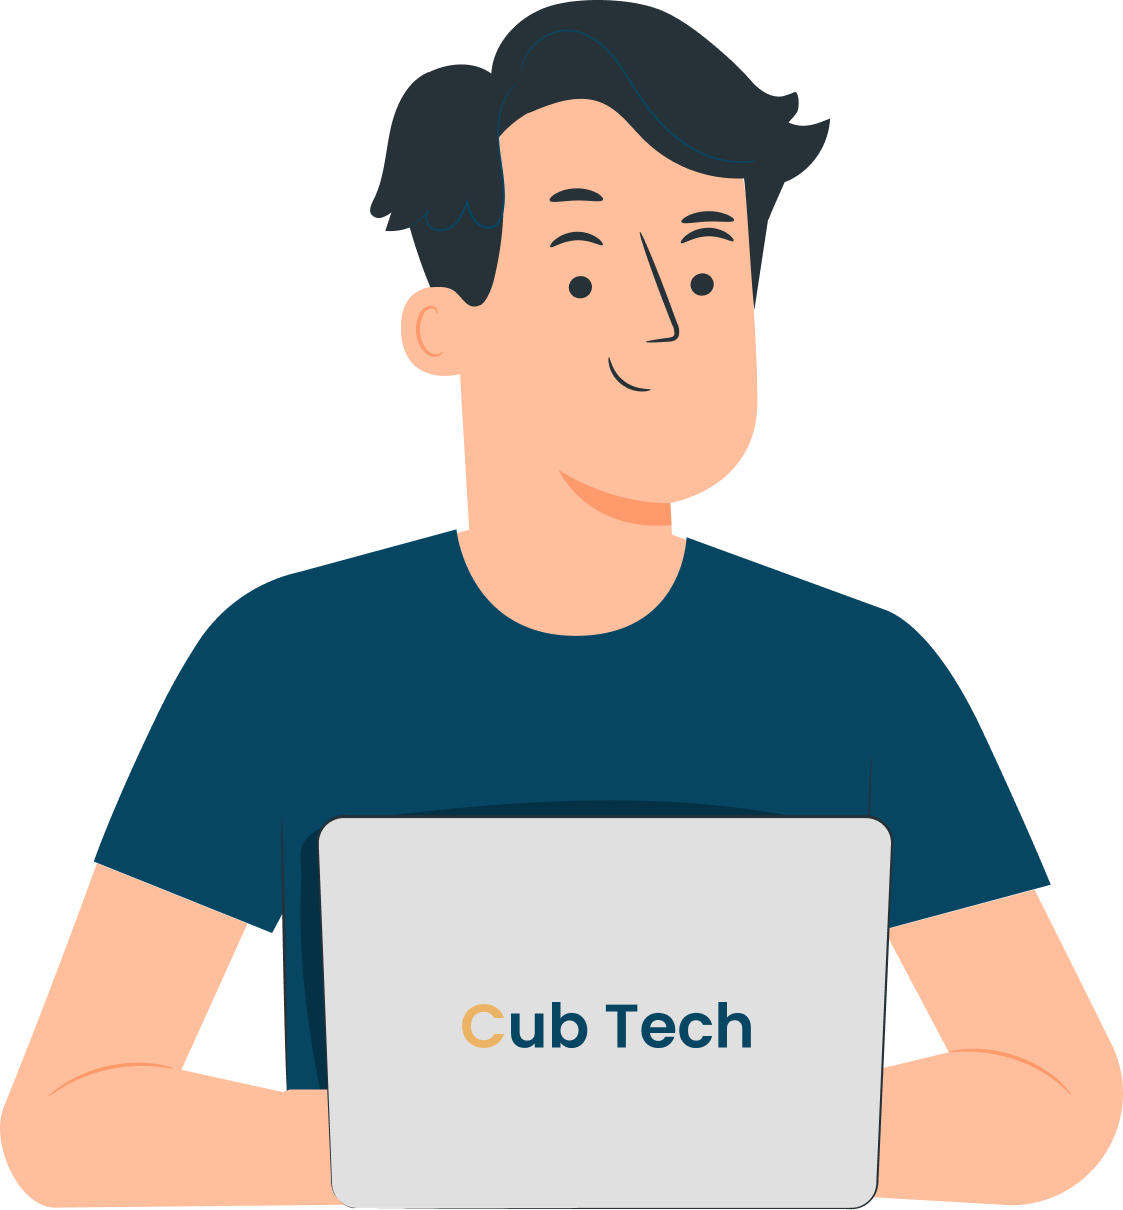
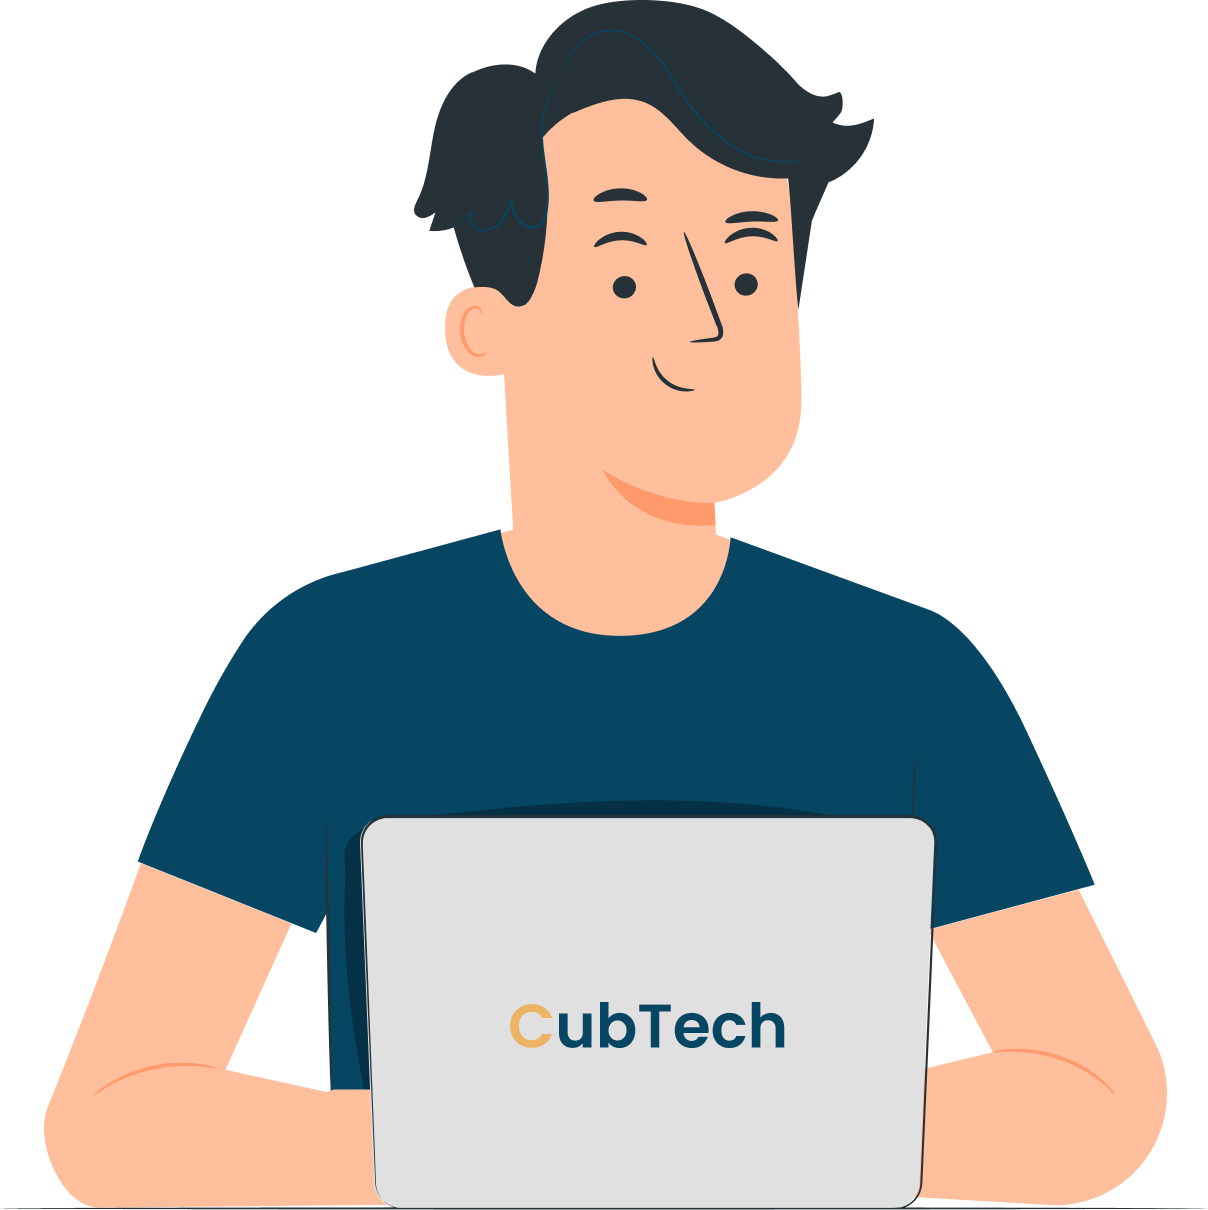
first commit

diff --git a/components/Hero.jsx b/components/Hero.jsx
@@ -7,21 +7,21 @@ const Hero = () => {
     <section className="flex px-4 justify-center xs:flex-col xs:gap-24 lg:flex-row bg-silver pb-20 mb-10">
       <div className="max-w-[850px] relative">
         <h1 className="text-secondary mb-4 mt-12">
-          <span style={{ display: 'inline-block' }}>C</span>
+          <span className="inline-block">C</span>
           {/* Use backticks for inline styles to avoid escaping quotes */}
-          <span className="text-primary" style={{ display: 'inline-block' }}><AnimatedLogo /></span>
+          <span className="text-primary inline-block"><AnimatedLogo /></span>
         </h1>
 
-        <p className="text-gray-700 mb-8">
+        <p className="text-gray-700 mb-10">
           Cub Tech is a scientific club located within the men's residence of CUB1 at Bab Ezzouar. Our mission revolves around fostering a collaborative environment where knowledge sharing thrives. Through lectures, workshops, and collaborative projects, we aim to deepen understanding across various scientific disciplines, inspiring lifelong learning and a sense of camaraderie among our members.
         </p>
 
         {/* Fix button hover effect (assuming missing hover styles) */}
-        <button className="py-3 lg:py-4 px-12 lg:px-16 text-primary cursor-not-allowed font-semibold rounded-lg bg-secondary hover:bg-secondary-hover transition-all outline-none">Join Us</button>
+        <button className="py-4 lg:py-4 px-12 lg:px-16 text-primary cursor-not-allowed font-semibold rounded-lg bg-secondary hover:bg-secondary-hover transition-all outline-none">Join Us</button>
       </div>
 
       <div className="relative">
-        <Image src={"/hero.png"} alt="hero" width={355} height={340} />
+        <Image src={"/hero.png"} alt="hero" width={390} height={375} />
         <div className="absolute top-5 right-[-30px] animate-float">
           <Image src={"/think.png"} alt="think" width={80} height={80} />
         </div>

diff --git a/app/not-found.jsx b/app/not-found.jsx
@@ -7,7 +7,7 @@ const NotFound = () => {
     <section className="max-container flex flex-col items-center gap-2 px-2 bg-silver pb-5">
       <h1 className="text-primary">Whoops!</h1>
       <p className="text-primary">404 Page Not Found</p>
-        <Image src={"/error.png"} width={400} height={400} />
+        <Image src={"/error.png"} width={400} height={400} alt="error" />
       <h2 className="text-primary text-center">
         Looks like this page went on vacation.
       </h2>
